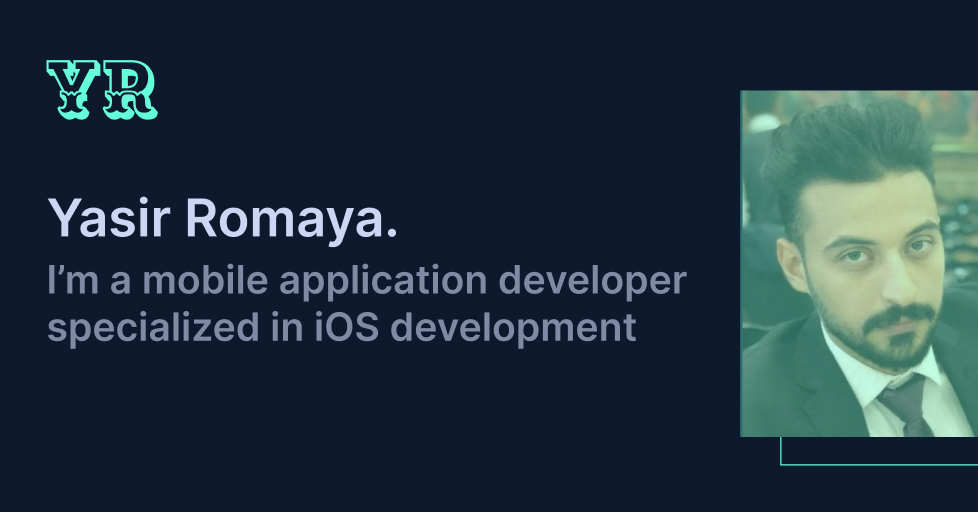
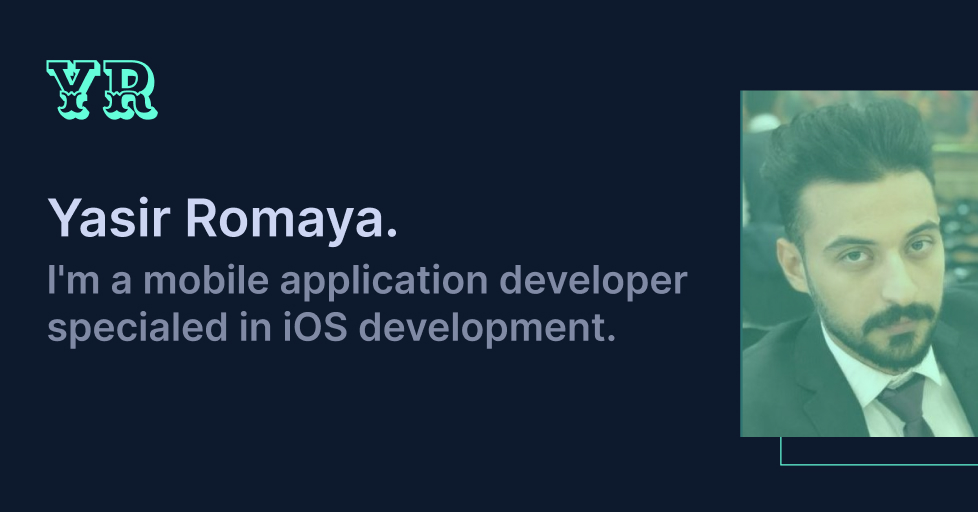
release 1.2.6

Changed region(s): [[0.0613, 0.5312, 0.7055, 0.6875]]

diff --git a/lib/ui/home_page.dart b/lib/ui/home_page.dart
@@ -190,7 +190,8 @@ class _HomePageState extends State<HomePage> {
                           color: const Color(0xffffA8B2D1),
                           iconSize: 16.0,
                           onPressed: () {
-                            method.launchURL("https://stackoverflow.com/users/9005297/yasir-romaya");
+                            method.launchURL(
+                                "https://stackoverflow.com/users/9005297/yasir-romaya");
                           }),
                       IconButton(
                           icon: const FaIcon(FontAwesomeIcons.instagram),
@@ -270,7 +271,7 @@ class _HomePageState extends State<HomePage> {
                                 ),
                                 CustomText(
                                   text:
-                                      "I'm a mobile application developer specialized in iOS development.",
+                                      "I'm a mobile application developer specialed in iOS development.",
                                   textsize: 56.0,
                                   color:
                                       const Color(0xffCCD6F6).withOpacity(0.6),
@@ -279,7 +280,7 @@ class _HomePageState extends State<HomePage> {
                                 SizedBox(
                                   height: size.height * .04,
                                 ),
-              
+
                                 //get in tuch text
                                 InkWell(
                                   onTap: () {
@@ -442,7 +443,8 @@ class _HomePageState extends State<HomePage> {
                                   ),
 
                                   FeatureProject(
-                                    imagePath: "assets/images/dx_video_play_preview.gif",
+                                    imagePath:
+                                        "assets/images/dx_video_play_preview.gif",
                                     onStoreTab: () {
                                       method.launchURL(
                                           "https://github.com/yasirdx777/DXVideoPlay");
@@ -478,7 +480,8 @@ class _HomePageState extends State<HomePage> {
                                   ),
 
                                   FeatureProject(
-                                    imagePath: "assets/images/dx_image_slider_view.gif",
+                                    imagePath:
+                                        "assets/images/dx_image_slider_view.gif",
                                     onStoreTab: () {
                                       method.launchURL(
                                           "https://github.com/yasirdx777/DXImageSliderView");

diff --git a/lib/ui/mobile_home.dart b/lib/ui/mobile_home.dart
@@ -118,7 +118,7 @@ class _MobileHomeState extends State<MobileHome> {
               ),
               CustomText(
                 text:
-                    "I'm a mobile application developer specialized in iOS development.",
+                    "I'm a mobile application developer specialed in iOS development.",
                 textsize: 42.0,
                 color: const Color(0xffCCD6F6).withOpacity(0.6),
                 fontWeight: FontWeight.w700,
